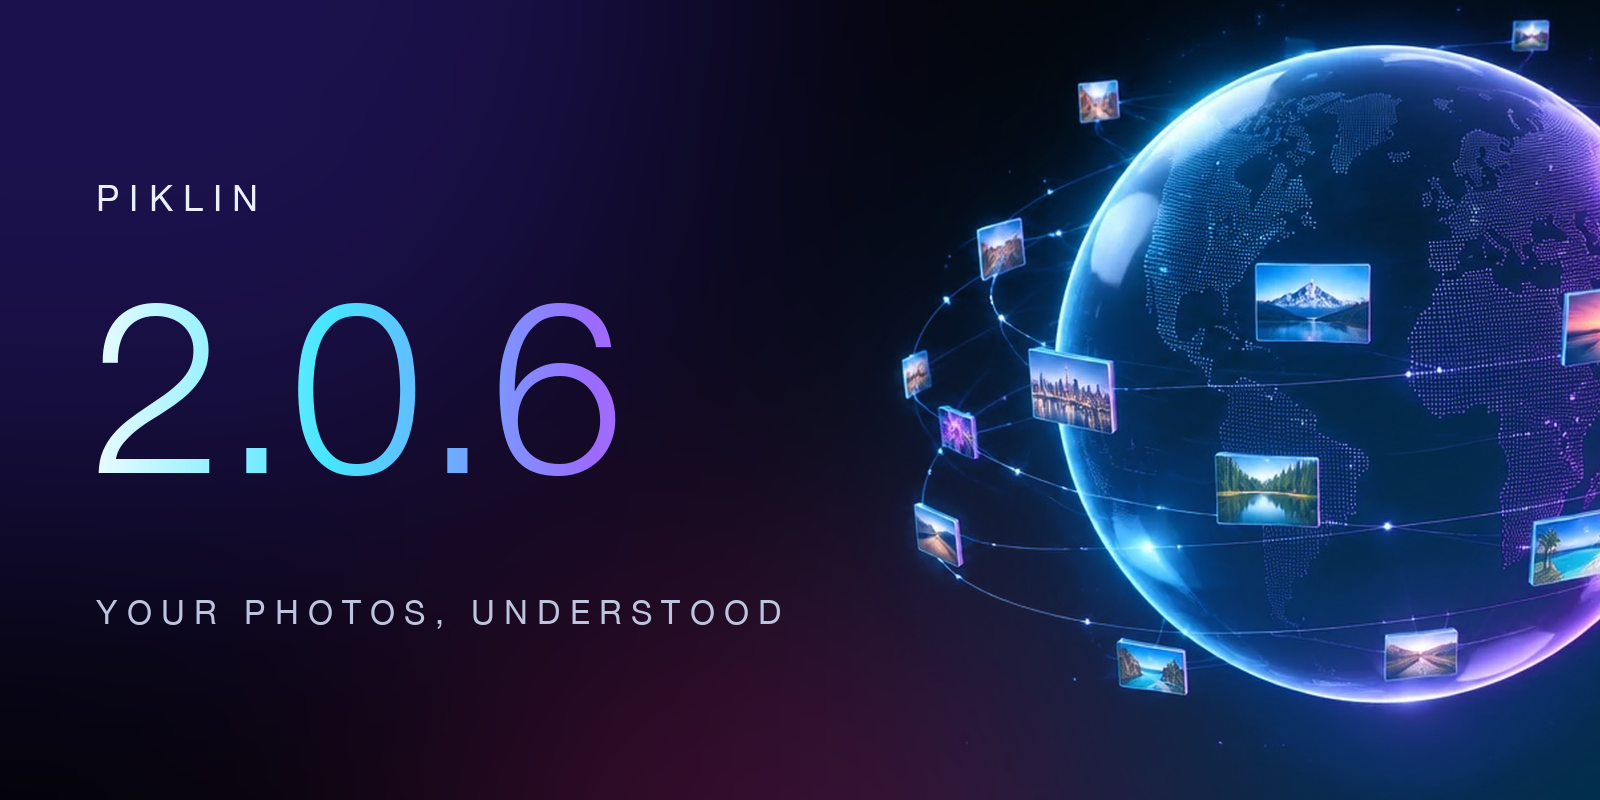
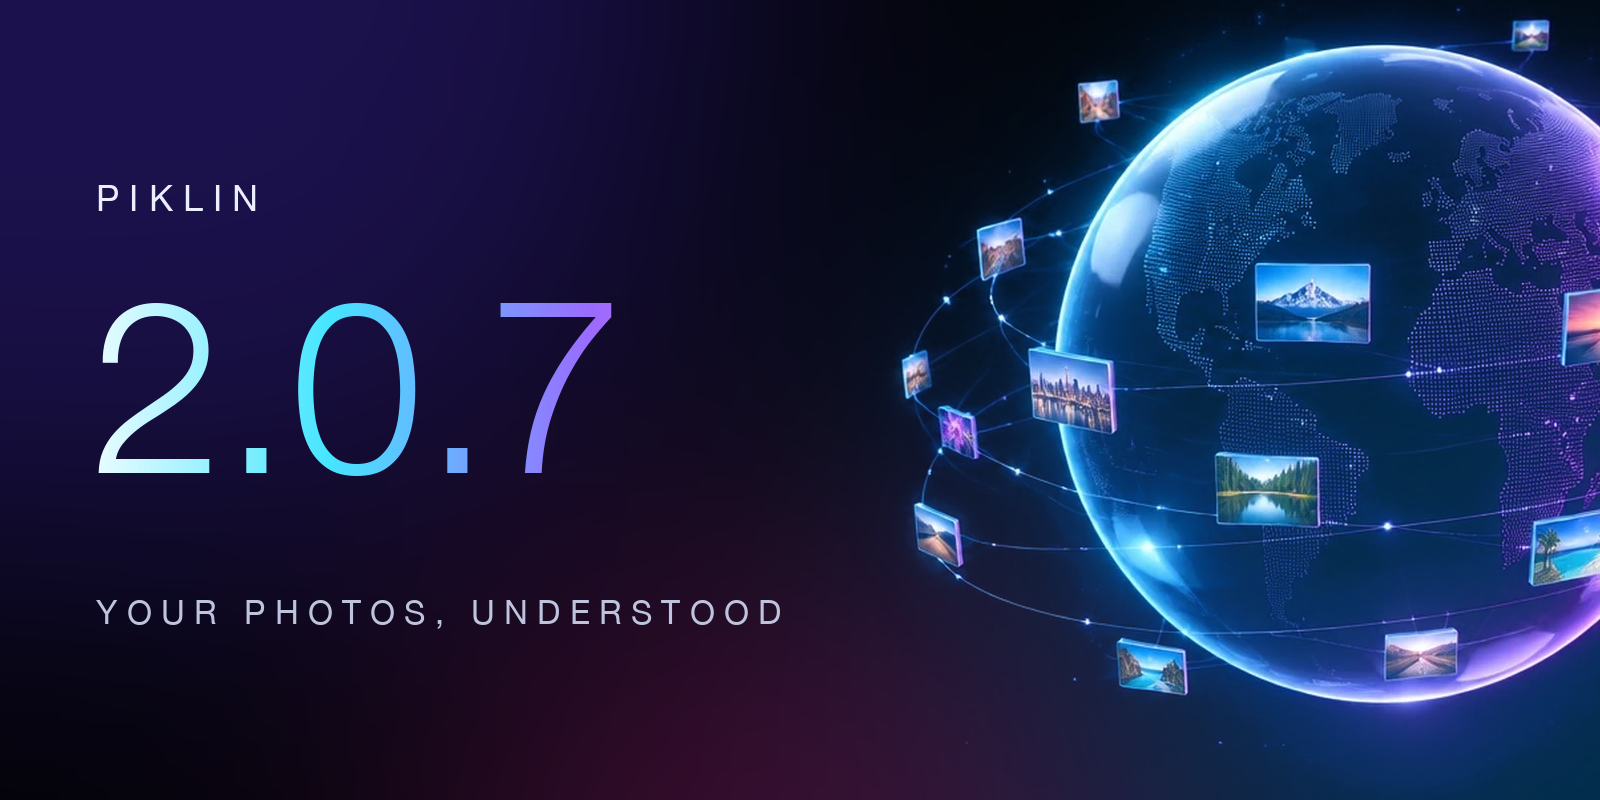
Website and share images for 2.0.7

Changed region(s): [[0.3125, 0.375, 0.4062, 0.5938]]

diff --git a/docs/index.html b/docs/index.html
@@ -24,7 +24,7 @@
 })();
 </script>
 <meta name="theme-color" content="#04040a">
-<title>Piklin 2.0.6 — your photos, understood. Free and private for Linux and Mac</title>
+<title>Piklin 2.0.7 — your photos, understood. Free and private for Linux and Mac</title>
 <meta name="description" content="Piklin is a free, private photo and video library and editor for Linux and Mac. It finds the people in your photos with no cloud, understands what you search for, and keeps your photos where you want them. Nothing leaves your computer.">
 <meta name="robots" content="index, follow, max-image-preview:large">
 <link rel="canonical" href="https://vezzulab.github.io/Piklin/">
@@ -32,26 +32,26 @@
 <meta property="og:site_name" content="Piklin">
 <meta property="og:type" content="website">
 <meta property="og:url" content="https://vezzulab.github.io/Piklin/">
-<meta property="og:title" content="Piklin 2.0.6 — your photos, understood · tus fotos, entendidas">
+<meta property="og:title" content="Piklin 2.0.7 — your photos, understood · tus fotos, entendidas">
 <meta property="og:description" content="Free and private photo and video library for Linux and Mac. People without the cloud, search that understands you. · Biblioteca gratis y privada de fotos y videos para Linux y Mac.">
-<meta property="og:image" content="https://vezzulab.github.io/Piklin/screenshots/social.png?v=206">
-<meta property="og:image:secure_url" content="https://vezzulab.github.io/Piklin/screenshots/social.png?v=206">
+<meta property="og:image" content="https://vezzulab.github.io/Piklin/screenshots/social.png?v=207">
+<meta property="og:image:secure_url" content="https://vezzulab.github.io/Piklin/screenshots/social.png?v=207">
 <meta property="og:image:type" content="image/png">
 <meta property="og:image:width" content="1200">
 <meta property="og:image:height" content="630">
-<meta property="og:image:alt" content="Piklin 2.0.6: a glass globe of photos in the dark">
+<meta property="og:image:alt" content="Piklin 2.0.7: a glass globe of photos in the dark">
 <meta name="twitter:card" content="summary_large_image">
-<meta name="twitter:title" content="Piklin 2.0.6 — your photos, understood">
+<meta name="twitter:title" content="Piklin 2.0.7 — your photos, understood">
 <meta name="twitter:description" content="Free and private photo and video library for Linux and Mac. Nothing leaves your computer.">
-<meta name="twitter:image" content="https://vezzulab.github.io/Piklin/screenshots/social.png?v=206">
+<meta name="twitter:image" content="https://vezzulab.github.io/Piklin/screenshots/social.png?v=207">
 <link rel="icon" href="icon.png">
 <script type="application/ld+json">
-{"@context":"https://schema.org","@type":"SoftwareApplication","name":"Piklin","alternateName":"Piklin 2.0.6",
+{"@context":"https://schema.org","@type":"SoftwareApplication","name":"Piklin","alternateName":"Piklin 2.0.7",
 "applicationCategory":"MultimediaApplication","applicationSubCategory":"Photo library and editor",
-"operatingSystem":"Linux, macOS 11 or newer","softwareVersion":"2.0.6","inLanguage":["en","es"],
+"operatingSystem":"Linux, macOS 11 or newer","softwareVersion":"2.0.7","inLanguage":["en","es"],
 "description":"A free, private photo and video library and editor for Linux and Mac. Finds the people in your photos with no cloud, understands what you search for, browses your photos on a map and keeps them where you want. Nothing leaves your computer.",
 "url":"https://vezzulab.github.io/Piklin/","downloadUrl":"https://github.com/vezzulab/Piklin/releases/latest",
-"image":"https://vezzulab.github.io/Piklin/screenshots/social.png?v=206","screenshot":["https://vezzulab.github.io/Piklin/screenshots/map.png","https://vezzulab.github.io/Piklin/screenshots/editor.png"],
+"image":"https://vezzulab.github.io/Piklin/screenshots/social.png?v=207","screenshot":["https://vezzulab.github.io/Piklin/screenshots/map.png","https://vezzulab.github.io/Piklin/screenshots/editor.png"],
 "offers":{"@type":"Offer","price":"0","priceCurrency":"USD"},
 "author":{"@type":"Organization","name":"Vezzu Studio","url":"https://github.com/vezzulab"},
 "sameAs":["https://github.com/vezzulab/Piklin"]}
@@ -260,14 +260,14 @@ details.credits{width:100%;margin-top:18px;font-size:13px;color:var(--mute)}deta
 <header class="hero">
   <div class="wrap">
     <div>
-      <span class="chip"><i></i><span class="l en">New in 2.0.6 · People without the cloud</span><span class="l es">Nuevo en 2.0.6 · People sin nube</span></span>
+      <span class="chip"><i></i><span class="l en">New in 2.0.7 · Videos, duplicates and Events</span><span class="l es">Nuevo en 2.0.7 · Videos, duplicados y Eventos</span></span>
       <h1><span class="l en">Your memories,<br><span class="grad">understood.</span></span><span class="l es">Tus recuerdos,<br><span class="grad">entendidos.</span></span></h1>
       <p class="sub"><span class="l en">A free photo and video library for Linux and Mac that finds the people in your photos, understands what you search for and never sends a thing to anyone.</span><span class="l es">Una biblioteca de fotos y videos gratis para Linux y Mac que encuentra a las personas en tus fotos, entiende lo que buscas y no le envía nada a nadie.</span></p>
       <div class="btns">
         <a class="btn go" id="dl-main" href="https://github.com/vezzulab/Piklin/releases/latest"><span id="dl-main-t"><span class="l en">Download Piklin</span><span class="l es">Descargar Piklin</span></span></a>
-        <a class="btn" href="#people"><span class="l en">See what is new</span><span class="l es">Ver las novedades</span></a>
+        <a class="btn" href="#new"><span class="l en">See what is new</span><span class="l es">Ver las novedades</span></a>
       </div>
-      <p class="meta"><span class="l en">Free for any use · Linux and macOS · version </span><span class="l es">Gratis para cualquier uso · Linux y macOS · versión </span><b id="dl-version">2.0.6</b></p>
+      <p class="meta"><span class="l en">Free for any use · Linux and macOS · version </span><span class="l es">Gratis para cualquier uso · Linux y macOS · versión </span><b id="dl-version">2.0.7</b></p>
     </div>
     <div class="orb" id="orb"><img width="900" height="724" src="art/hero-m.webp" alt="A glass globe of photos orbiting in the dark"></div>
     <div class="stats">
@@ -285,10 +285,25 @@ details.credits{width:100%;margin-top:18px;font-size:13px;color:var(--mute)}deta
 </div></div>
 
 <main>
+<section id="new">
+  <div class="wrap">
+    <div class="eyebrow rv"><span class="l en">New in 2.0.7</span><span class="l es">Nuevo en 2.0.7</span></div>
+    <h2 class="rv"><span class="l en">Smoother, tidier,<br>and in step.</span><span class="l es">Más fluido, más ordenado<br>y sincronizado.</span></h2>
+    <div class="grid">
+      <div class="card rv"><div class="ic"><svg class="i"><use href="#i-shrink"/></svg></div><h3><span class="l en">Videos smaller, Piklin still smooth</span><span class="l es">Videos más pequeños, Piklin sigue fluido</span></h3><p><span class="l en">A helper of its own makes videos smaller, so scrolling and typing never stall. Photos being copied in come first, and every result is checked before it replaces the original.</span><span class="l es">Un ayudante propio hace los videos más pequeños, así que desplazarte y escribir nunca se traba. Las fotos que se copian van primero, y cada resultado se comprueba antes de reemplazar el original.</span></p></div>
+      <div class="card rv"><div class="ic"><svg class="i"><use href="#i-image"/></svg></div><h3><span class="l en">Duplicates, found by the picture</span><span class="l es">Duplicados, hallados por la imagen</span></h3><p><span class="l en">The same photo saved again, made smaller or sent through a chat is a duplicate even if the files differ. Same for videos. Merging keeps the copy you invested in; nothing is erased.</span><span class="l es">La misma foto guardada otra vez, achicada o enviada por un chat es un duplicado aunque los archivos difieran. Igual con los videos. Al unir se queda la copia en la que invertiste; nada se borra.</span></p></div>
+      <div class="card rv"><div class="ic"><svg class="i"><use href="#i-cal"/></svg></div><h3><span class="l en">Events</span><span class="l es">Eventos</span></h3><p><span class="l en">Piklin finds the days and trips in your photos by itself, names them, picks a cover and shows them as cards by year. “Miami · 22 March 2025”.</span><span class="l es">Piklin encuentra solo los días y viajes en tus fotos, les pone nombre, elige una portada y los muestra como tarjetas por año. “Miami · 22 de marzo de 2025”.</span></p></div>
+      <div class="card rv"><div class="ic"><svg class="i"><use href="#i-search"/></svg></div><h3><span class="l en">Every detail of a photo</span><span class="l es">Cada detalle de una foto</span></h3><p><span class="l en">The Info panel opens with all the metadata: every EXIF tag explained in words, the full GPS block, IPTC and XMP, the colour profile, RAW sensor data, and the streams of a video.</span><span class="l es">El panel Info se abre con todos los metadatos: cada etiqueta EXIF explicada con palabras, el bloque GPS completo, IPTC y XMP, el perfil de color, los datos del sensor RAW y los flujos de un video.</span></p></div>
+      <div class="card rv"><div class="ic"><svg class="i"><use href="#i-stack"/></svg></div><h3><span class="l en">Your computers, in minutes</span><span class="l es">Tus computadoras, en minutos</span></h3><p><span class="l en">What one computer does, the others see within minutes. The work on this one comes first, then the sync, and both matter.</span><span class="l es">Lo que hace una computadora, las otras lo ven en minutos. Primero el trabajo de esta, luego la sincronización, y ambos importan.</span></p></div>
+      <div class="card rv"><div class="ic"><svg class="i"><use href="#i-shield"/></svg></div><h3><span class="l en">A backup that tells you why</span><span class="l es">Una copia que te dice por qué</span></h3><p><span class="l en">If the backup waits for photos or videos, it says so with numbers, like “70 videos left, about 4 h 40 min”. Half-made files are never sent.</span><span class="l es">Si la copia espera por fotos o videos, lo dice con números, como “faltan 70 videos, unas 4 h 40 min”. Los archivos a medias nunca se envían.</span></p></div>
+    </div>
+  </div>
+</section>
+
 <section id="people">
   <div class="wrap split">
     <div class="rv">
-      <div class="eyebrow"><span class="l en">New · People</span><span class="l es">Nuevo · Personas</span></div>
+      <div class="eyebrow"><span class="l en">People</span><span class="l es">Personas</span></div>
       <h2><span class="l en">Everyone you love, found on your own computer.</span><span class="l es">Todos los que quieres, encontrados en tu propia computadora.</span></h2>
       <p class="lead"><span class="l en">Piklin recognises faces without a server, an account or a upload. Name a person once and every photo of them gathers by itself.</span><span class="l es">Piklin reconoce caras sin servidor, sin cuenta y sin subir nada. Nombra a una persona una vez y todas sus fotos se juntan solas.</span></p>
       <ul class="ticks">
@@ -403,8 +418,8 @@ details.credits{width:100%;margin-top:18px;font-size:13px;color:var(--mute)}deta
 (function () {
   // ---- language: remembered on this device only
   var T = {
-    en: { title: "Piklin 2.0.6 — your photos, understood", mac: "Download for Mac", lin: "Download for Linux", arm: "Download for Linux ARM", any: "Choose your download", me: "your computer" },
-    es: { title: "Piklin 2.0.6 — tus fotos, entendidas", mac: "Descargar para Mac", lin: "Descargar para Linux", arm: "Descargar para Linux ARM", any: "Elegir mi descarga", me: "tu computadora" }
+    en: { title: "Piklin 2.0.7 — your photos, understood", mac: "Download for Mac", lin: "Download for Linux", arm: "Download for Linux ARM", any: "Choose your download", me: "your computer" },
+    es: { title: "Piklin 2.0.7 — tus fotos, entendidas", mac: "Descargar para Mac", lin: "Descargar para Linux", arm: "Descargar para Linux ARM", any: "Elegir mi descarga", me: "tu computadora" }
   };
   var lang = document.documentElement.getAttribute("data-lang");
   function setLang(l) {
